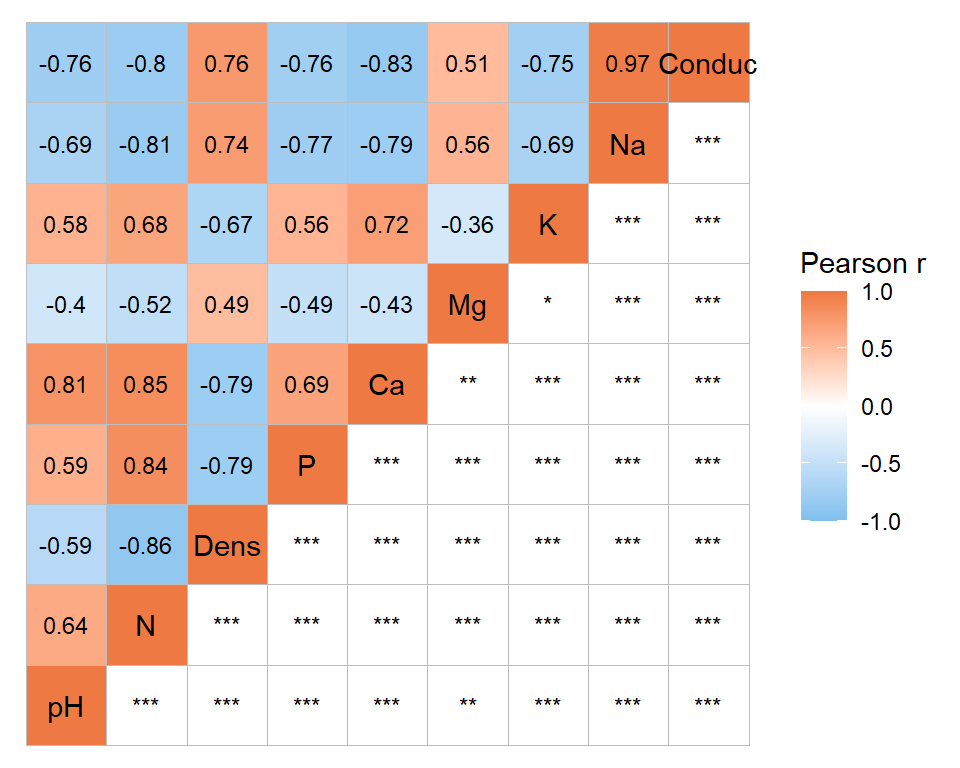
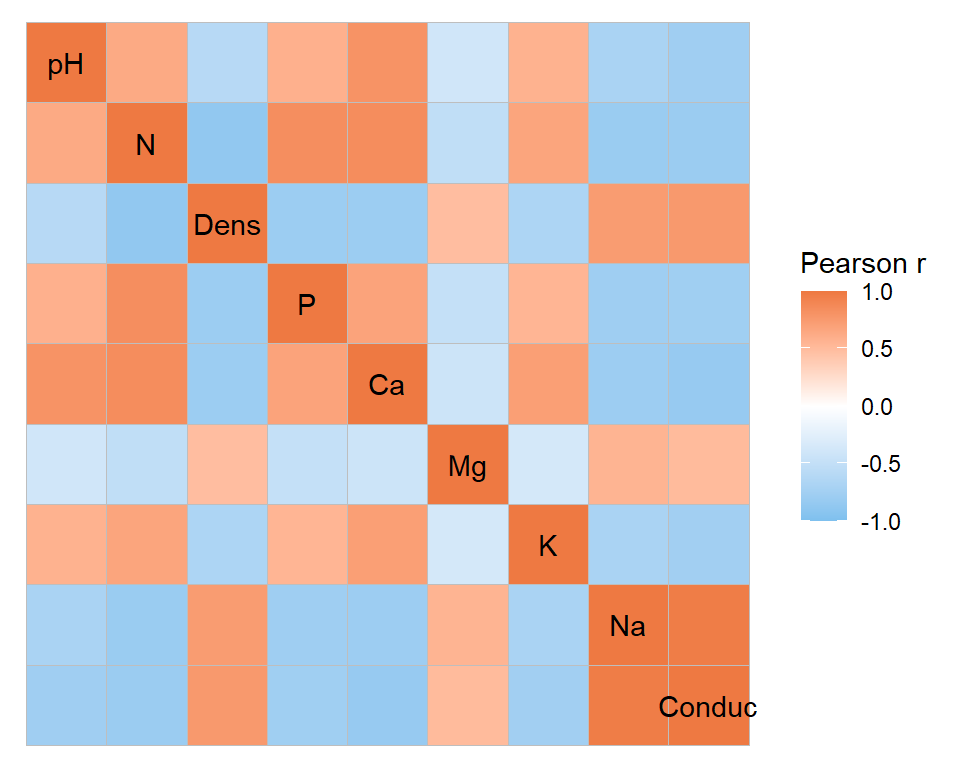
u

diff --git a/_posts/2026-02-17-post-43-pair-them-upcreating-scatterplot-and-correlation-matrices-in-ggplots/post-43-pair-them-upcreating-scatterplot-and-correlation-matrices-in-ggplots.html b/_posts/2026-02-17-post-43-pair-them-upcreating-scatterplot-and-correlation-matrices-in-ggplots/post-43-pair-them-upcreating-scatterplot-and-correlation-matrices-in-ggplots.html
@@ -119,7 +119,7 @@ code span.wa { color: #5e5e5e; font-style: italic; } /* Warning */
   <!--/radix_placeholder_rmarkdown_metadata-->
   
   <script type="text/json" id="radix-resource-manifest">
-  {"type":"character","attributes":{},"value":["post-43-pair-them-upcreating-scatterplot-and-correlation-matrices-in-ggplots_files/anchor-4.2.2/anchor.min.js","post-43-pair-them-upcreating-scatterplot-and-correlation-matrices-in-ggplots_files/bowser-1.9.3/bowser.min.js","post-43-pair-them-upcreating-scatterplot-and-correlation-matrices-in-ggplots_files/distill-2.2.21/template.v2.js","post-43-pair-them-upcreating-scatterplot-and-correlation-matrices-in-ggplots_files/figure-html5/unnamed-chunk-2-1.png","post-43-pair-them-upcreating-scatterplot-and-correlation-matrices-in-ggplots_files/figure-html5/unnamed-chunk-2-2.png","post-43-pair-them-upcreating-scatterplot-and-correlation-matrices-in-ggplots_files/figure-html5/unnamed-chunk-3-1.png","post-43-pair-them-upcreating-scatterplot-and-correlation-matrices-in-ggplots_files/figure-html5/unnamed-chunk-4-1.png","post-43-pair-them-upcreating-scatterplot-and-correlation-matrices-in-ggplots_files/figure-html5/unnamed-chunk-5-1.png","post-43-pair-them-upcreating-scatterplot-and-correlation-matrices-in-ggplots_files/figure-html5/unnamed-chunk-6-1.png","post-43-pair-them-upcreating-scatterplot-and-correlation-matrices-in-ggplots_files/header-attrs-2.30/header-attrs.js","post-43-pair-them-upcreating-scatterplot-and-correlation-matrices-in-ggplots_files/jquery-3.6.0/jquery-3.6.0.js","post-43-pair-them-upcreating-scatterplot-and-correlation-matrices-in-ggplots_files/jquery-3.6.0/jquery-3.6.0.min.js","post-43-pair-them-upcreating-scatterplot-and-correlation-matrices-in-ggplots_files/jquery-3.6.0/jquery-3.6.0.min.map","post-43-pair-them-upcreating-scatterplot-and-correlation-matrices-in-ggplots_files/popper-2.6.0/popper.min.js","post-43-pair-them-upcreating-scatterplot-and-correlation-matrices-in-ggplots_files/tippy-6.2.7/tippy-bundle.umd.min.js","post-43-pair-them-upcreating-scatterplot-and-correlation-matrices-in-ggplots_files/tippy-6.2.7/tippy-light-border.css","post-43-pair-them-upcreating-scatterplot-and-correlation-matrices-in-ggplots_files/tippy-6.2.7/tippy.css","post-43-pair-them-upcreating-scatterplot-and-correlation-matrices-in-ggplots_files/tippy-6.2.7/tippy.umd.min.js","post-43-pair-them-upcreating-scatterplot-and-correlation-matrices-in-ggplots_files/webcomponents-2.0.0/webcomponents.js"]}
+  {"type":"character","attributes":{},"value":["post-43-pair-them-upcreating-scatterplot-and-correlation-matrices-in-ggplots_files/anchor-4.2.2/anchor.min.js","post-43-pair-them-upcreating-scatterplot-and-correlation-matrices-in-ggplots_files/bowser-1.9.3/bowser.min.js","post-43-pair-them-upcreating-scatterplot-and-correlation-matrices-in-ggplots_files/distill-2.2.21/template.v2.js","post-43-pair-them-upcreating-scatterplot-and-correlation-matrices-in-ggplots_files/figure-html5/unnamed-chunk-2-1.png","post-43-pair-them-upcreating-scatterplot-and-correlation-matrices-in-ggplots_files/figure-html5/unnamed-chunk-2-2.png","post-43-pair-them-upcreating-scatterplot-and-correlation-matrices-in-ggplots_files/figure-html5/unnamed-chunk-3-1.png","post-43-pair-them-upcreating-scatterplot-and-correlation-matrices-in-ggplots_files/figure-html5/unnamed-chunk-4-1.png","post-43-pair-them-upcreating-scatterplot-and-correlation-matrices-in-ggplots_files/figure-html5/unnamed-chunk-5-1.png","post-43-pair-them-upcreating-scatterplot-and-correlation-matrices-in-ggplots_files/figure-html5/unnamed-chunk-6-1.png","post-43-pair-them-upcreating-scatterplot-and-correlation-matrices-in-ggplots_files/figure-html5/unnamed-chunk-7-1.png","post-43-pair-them-upcreating-scatterplot-and-correlation-matrices-in-ggplots_files/figure-html5/unnamed-chunk-8-1.png","post-43-pair-them-upcreating-scatterplot-and-correlation-matrices-in-ggplots_files/header-attrs-2.30/header-attrs.js","post-43-pair-them-upcreating-scatterplot-and-correlation-matrices-in-ggplots_files/jquery-3.6.0/jquery-3.6.0.js","post-43-pair-them-upcreating-scatterplot-and-correlation-matrices-in-ggplots_files/jquery-3.6.0/jquery-3.6.0.min.js","post-43-pair-them-upcreating-scatterplot-and-correlation-matrices-in-ggplots_files/jquery-3.6.0/jquery-3.6.0.min.map","post-43-pair-them-upcreating-scatterplot-and-correlation-matrices-in-ggplots_files/popper-2.6.0/popper.min.js","post-43-pair-them-upcreating-scatterplot-and-correlation-matrices-in-ggplots_files/tippy-6.2.7/tippy-bundle.umd.min.js","post-43-pair-them-upcreating-scatterplot-and-correlation-matrices-in-ggplots_files/tippy-6.2.7/tippy-light-border.css","post-43-pair-them-upcreating-scatterplot-and-correlation-matrices-in-ggplots_files/tippy-6.2.7/tippy.css","post-43-pair-them-upcreating-scatterplot-and-correlation-matrices-in-ggplots_files/tippy-6.2.7/tippy.umd.min.js","post-43-pair-them-upcreating-scatterplot-and-correlation-matrices-in-ggplots_files/webcomponents-2.0.0/webcomponents.js"]}
   </script>
   <!--radix_placeholder_navigation_in_header-->
   <!--/radix_placeholder_navigation_in_header-->
@@ -1639,18 +1639,132 @@ div.l-body img {
 <p>Suppose you have a dataset with several variables in the columns (can be continuous, categorical, or a mix of both) and you would like to explore the bivariate relationships between the variables, then a scatterplot matrix will be really handy for this: it visualizes all pairwise combinations of variables using a range of plot types, for example, a scatterplot for two continuous variables and a boxplot for one continuous vs. one categorical variable. If you have just continuous variables in the data, you can further visualize their pairwise correlation coefficients in a correlation heatmap, which uses color for the sign of correlations and intensity for the strength of correlations. Interesting patterns will often reveal themselves!</p>
 <p>In this post, we’ll be creating scatterplot matrices in ggplots using the extension package <code>GGally</code> as well as correlation matrices/heatmaps using the extension package <code>ggcorrheatmap</code>. Let’s start pairing things up!</p>
 <h2 id="part-i.-create-scatterplot-matrices-with-ggally">Part I. Create scatterplot matrices with <code>GGally</code></h2>
-<h3 id="basic-scatterplot-matrices">(1) Basic scatterplot matrices</h3>
+<p>In the first part of the post, we’ll create scatterplot matrices using the package <a href="https://ggobi.github.io/ggally/index.html"><code>GGally</code></a>. We’ll use the “Soils” dataset from the package <code>cardata</code>: the dataset contains various physical and chemical characteristics of soils from different topographic positions. To simplify things, we’ll just use two continuous (“pH” and “N”) and two categorical (“Contour” and “Depth”) variables in the following examples. This also allows us to explore all three possible variable combinations (continuous–continuous, continuous–categorical, and categorical–categorical).</p>
+<h3 id="create-a-basic-scatterplot-matrix">(1) Create a basic scatterplot matrix</h3>
+<p>Adjust facet labels</p>
 <div class="layout-chunk" data-layout="l-body">
 <div class="sourceCode">
 <pre class="sourceCode r"><code class="sourceCode r"><span><span class='kw'><a href='https://rdrr.io/r/base/library.html'>library</a></span><span class='op'>(</span><span class='va'><a href='https://tidyverse.tidyverse.org'>tidyverse</a></span><span class='op'>)</span></span>
 <span><span class='kw'><a href='https://rdrr.io/r/base/library.html'>library</a></span><span class='op'>(</span><span class='va'><a href='https://ggobi.github.io/ggally/'>GGally</a></span><span class='op'>)</span></span>
-<span><span class='kw'><a href='https://rdrr.io/r/base/library.html'>library</a></span><span class='op'>(</span><span class='va'><a href='https://r-forge.r-project.org/projects/car/'>carData</a></span><span class='op'>)</span></span>
-<span><span class='fu'><a href='https://rdrr.io/r/utils/data.html'>data</a></span><span class='op'>(</span><span class='st'>"Soils"</span><span class='op'>)</span></span></code></pre>
+<span><span class='kw'><a href='https://rdrr.io/r/base/library.html'>library</a></span><span class='op'>(</span><span class='va'><a href='https://r-forge.r-project.org/projects/car/'>carData</a></span><span class='op'>)</span>  <span class='co'># for the dataset "Soils"</span></span>
+<span></span>
+<span><span class='co'>### Create a basic scatterplot matrix</span></span>
+<span><span class='va'>Soils</span></span></code></pre>
 </div>
+<pre><code>   Group    Contour Depth Gp Block   pH     N Dens   P    Ca    Mg
+1      1        Top  0-10 T0     1 5.40 0.188 0.92 215 16.35  7.65
+2      1        Top  0-10 T0     2 5.65 0.165 1.04 208 12.25  5.15
+3      1        Top  0-10 T0     3 5.14 0.260 0.95 300 13.02  5.68
+4      1        Top  0-10 T0     4 5.14 0.169 1.10 248 11.92  7.88
+5      2        Top 10-30 T1     1 5.14 0.164 1.12 174 14.17  8.12
+6      2        Top 10-30 T1     2 5.10 0.094 1.22 129  8.55  6.92
+7      2        Top 10-30 T1     3 4.70 0.100 1.52 117  8.74  8.16
+8      2        Top 10-30 T1     4 4.46 0.112 1.47 170  9.49  9.16
+9      3        Top 30-60 T3     1 4.37 0.112 1.07 121  8.85 10.35
+10     3        Top 30-60 T3     2 4.39 0.058 1.54 115  4.73  6.91
+11     3        Top 30-60 T3     3 4.17 0.078 1.26 112  6.29  7.95
+12     3        Top 30-60 T3     4 3.89 0.070 1.42 117  6.61  9.76
+13     4        Top 60-90 T6     1 3.88 0.077 1.25 127  6.41 10.96
+14     4        Top 60-90 T6     2 4.07 0.046 1.54  91  3.82  6.61
+15     4        Top 60-90 T6     3 3.88 0.055 1.53  91  4.98  8.00
+16     4        Top 60-90 T6     4 3.74 0.053 1.40  79  5.86 10.14
+17     5      Slope  0-10 S0     1 5.11 0.247 0.94 261 13.25  7.55
+18     5      Slope  0-10 S0     2 5.46 0.298 0.96 300 12.30  7.50
+19     5      Slope  0-10 S0     3 5.61 0.145 1.10 242  9.66  6.76
+20     5      Slope  0-10 S0     4 5.85 0.186 1.20 229 13.78  7.12
+21     6      Slope 10-30 S1     1 4.57 0.102 1.37 156  8.58  9.92
+22     6      Slope 10-30 S1     2 5.11 0.097 1.30 139  8.58  8.69
+23     6      Slope 10-30 S1     3 4.78 0.122 1.30 214  8.22  7.75
+24     6      Slope 10-30 S1     4 6.67 0.083 1.42 132 12.68  9.56
+25     7      Slope 30-60 S3     1 3.96 0.059 1.53  98  4.80 10.00
+26     7      Slope 30-60 S3     2 4.00 0.050 1.50 115  5.06  8.91
+27     7      Slope 30-60 S3     3 4.12 0.086 1.55 148  6.16  7.58
+28     7      Slope 30-60 S3     4 4.99 0.048 1.46  97  7.49  9.38
+29     8      Slope 60-90 S6     1 3.80 0.049 1.48 108  3.82  8.80
+30     8      Slope 60-90 S6     2 3.96 0.036 1.28 103  4.78  7.29
+31     8      Slope 60-90 S6     3 3.93 0.048 1.42 109  4.93  7.47
+32     8      Slope 60-90 S6     4 4.02 0.039 1.51 100  5.66  8.84
+33     9 Depression  0-10 D0     1 5.24 0.194 1.00 445 12.27  6.27
+34     9 Depression  0-10 D0     2 5.20 0.256 0.78 380 11.39  7.55
+35     9 Depression  0-10 D0     3 5.30 0.136 1.00 259  9.96  8.08
+36     9 Depression  0-10 D0     4 5.67 0.127 1.13 248  9.12  7.04
+37    10 Depression 10-30 D1     1 4.46 0.087 1.24 276  7.24  9.40
+38    10 Depression 10-30 D1     2 4.91 0.092 1.47 158  7.37 10.57
+39    10 Depression 10-30 D1     3 4.79 0.047 1.46 121  6.99  9.91
+40    10 Depression 10-30 D1     4 5.36 0.095 1.26 195  8.59  8.66
+41    11 Depression 30-60 D3     1 3.94 0.054 1.60 148  4.85  9.62
+42    11 Depression 30-60 D3     2 4.52 0.051 1.53 115  6.34  9.78
+43    11 Depression 30-60 D3     3 4.35 0.032 1.55  82  5.99  9.73
+44    11 Depression 30-60 D3     4 4.64 0.065 1.46 152  4.43 10.54
+45    12 Depression 60-90 D6     1 3.82 0.038 1.40 105  4.65  9.85
+46    12 Depression 60-90 D6     2 4.24 0.035 1.47 100  4.56  8.95
+47    12 Depression 60-90 D6     3 4.22 0.030 1.56  97  5.29  8.37
+48    12 Depression 60-90 D6     4 4.41 0.058 1.58 130  4.58  9.46
+      K    Na Conduc
+1  0.72  1.14   1.09
+2  0.71  0.94   1.35
+3  0.68  0.60   1.41
+4  1.09  1.01   1.64
+5  0.70  2.17   1.85
+6  0.81  2.67   3.18
+7  0.39  3.32   4.16
+8  0.70  3.76   5.14
+9  0.74  5.74   5.73
+10 0.77  5.85   6.45
+11 0.26  5.30   8.37
+12 0.41  8.30   9.21
+13 0.56  9.67  10.64
+14 0.50  7.67  10.07
+15 0.23  8.78  11.26
+16 0.41 11.04  12.15
+17 0.61  1.86   2.61
+18 0.68  2.00   1.98
+19 0.63  1.01   0.76
+20 0.62  3.09   2.85
+21 0.63  3.67   3.24
+22 0.42  4.70   4.63
+23 0.32  3.07   3.67
+24 0.55  8.30   8.10
+25 0.36  6.52   7.72
+26 0.28  7.91   9.78
+27 0.16  6.39   9.07
+28 0.40  9.70   9.13
+29 0.24  9.57  11.57
+30 0.24  9.67  11.42
+31 0.14  9.65  13.32
+32 0.37 10.54  11.57
+33 0.72  1.02   0.75
+34 0.78  1.63   2.20
+35 0.45  1.97   2.27
+36 0.55  1.43   0.67
+37 0.43  4.17   5.08
+38 0.59  5.07   6.37
+39 0.30  5.15   6.82
+40 0.48  4.17   3.65
+41 0.18  7.20  10.14
+42 0.34  8.52   9.74
+43 0.22  7.02   8.60
+44 0.22  7.61   9.09
+45 0.18 10.15  12.26
+46 0.33 10.51  11.29
+47 0.14  8.27   9.51
+48 0.14  9.28  12.69</code></pre>
+</div>
+<h3 id="change-plot-types-in-the-scatterplot-matrix">(2) Change plot types in the scatterplot matrix</h3>
+<p>built-in option
+custom functions
+function wrapping</p>
+<div class="layout-chunk" data-layout="l-body">
+
+</div>
+<h3 id="adjust-certain-plots-in-the-scatterplot-matrix">(3) Adjust certain plots in the scatterplot matrix</h3>
+<p>plot subsetting</p>
+<div class="layout-chunk" data-layout="l-body">
+
 </div>
 <h2 id="part-ii.-create-correlation-heatmaps-with-ggcorrheatmap">Part II. Create correlation heatmaps with <code>ggcorrheatmap</code></h2>
-<p>In the second part of this post, we’ll focus on the continuous variables in the <code>Soil</code> dataset. <code>ggcorrheatmap</code> offers a wide variety of functionality for creating correlation heatmaps. Let’s start with the basics and add more complexity as we go.</p>
-<h3 id="make-a-basic-correlation-heatmap">(1) Make a basic correlation heatmap</h3>
+<p>In the second part of this post, we’ll focus on the continuous variables in the <code>Soil</code> dataset. <a href="https://leod123.github.io/ggcorrheatmap/"><code>ggcorrheatmap</code></a> offers a wide variety of functionality for creating correlation heatmaps. Let’s start with the basics and add more complexity as we go.</p>
+<h3 id="create-a-basic-correlation-heatmap">(1) Create a basic correlation heatmap</h3>
 <p><code>ggcorrhm()</code> is the master function for creating correlation heatmaps. Simply pass your data to the function and you’ll get a basic heatmap (note that the default choice of correlation is the Pearson’s <em>r</em>)!</p>
 <div class="layout-chunk" data-layout="l-body">
 <div class="sourceCode">
@@ -1663,7 +1777,7 @@ div.l-body img {
 <span><span class='co'>### Create a basic correlation heatmap</span></span>
 <span><span class='fu'><a href='https://leod123.github.io/ggcorrheatmap/reference/ggcorrhm.html'>ggcorrhm</a></span><span class='op'>(</span><span class='va'>Soils_continuous</span><span class='op'>)</span></span></code></pre>
 </div>
-<p><img src="post-43-pair-them-upcreating-scatterplot-and-correlation-matrices-in-ggplots_files/figure-html5/unnamed-chunk-2-1.png" alt="" width="480" style="display: block; margin: auto;" /></p>
+<p><img src="post-43-pair-them-upcreating-scatterplot-and-correlation-matrices-in-ggplots_files/figure-html5/unnamed-chunk-4-1.png" alt="" width="480" style="display: block; margin: auto;" /></p>
 </div>
 <p>We can also change the cell color/shape and remove the diagonal cells (which all have a correlation coefficient of 1).</p>
 <div class="layout-chunk" data-layout="l-body">
@@ -1678,7 +1792,7 @@ div.l-body img {
 <span>         size_range <span class='op'>=</span> <span class='fu'><a href='https://rdrr.io/r/base/c.html'>c</a></span><span class='op'>(</span><span class='fl'>5</span>, <span class='fl'>10</span><span class='op'>)</span>,  <span class='co'># cell size range</span></span>
 <span>         layout <span class='op'>=</span> <span class='st'>"bottomright"</span><span class='op'>)</span>  <span class='co'># show only the bottom-right triangular matrix     </span></span></code></pre>
 </div>
-<p><img src="post-43-pair-them-upcreating-scatterplot-and-correlation-matrices-in-ggplots_files/figure-html5/unnamed-chunk-3-1.png" alt="" width="480" style="display: block; margin: auto;" /></p>
+<p><img src="post-43-pair-them-upcreating-scatterplot-and-correlation-matrices-in-ggplots_files/figure-html5/unnamed-chunk-5-1.png" alt="" width="480" style="display: block; margin: auto;" /></p>
 </div>
 <p>Looks like there are some strong positive correlations (e.g., between Na and Conductance and between N and P) and some strong negative ones (e.g., between N and Density and between P and Density). But what are the actual coefficients (and their statistical significance)?</p>
 <h3 id="create-a-correlation-heatmap-with-a-mixed-layout">(2) Create a correlation heatmap with a mixed layout</h3>
@@ -1695,7 +1809,7 @@ div.l-body img {
 <span>         p_thresholds <span class='op'>=</span> <span class='fu'><a href='https://rdrr.io/r/base/c.html'>c</a></span><span class='op'>(</span><span class='st'>"***"</span> <span class='op'>=</span> <span class='fl'>0.001</span>, <span class='st'>"**"</span> <span class='op'>=</span> <span class='fl'>0.01</span>, <span class='st'>"*"</span> <span class='op'>=</span> <span class='fl'>0.05</span>, <span class='fl'>1</span><span class='op'>)</span>,  <span class='co'># thresholds for annotating the significance stars</span></span>
 <span>         cell_labels <span class='op'>=</span> <span class='fu'><a href='https://rdrr.io/r/base/c.html'>c</a></span><span class='op'>(</span><span class='cn'>T</span>, <span class='cn'>F</span><span class='op'>)</span><span class='op'>)</span>  <span class='co'># whether to show the correlation coefficients in each of the two triangular matrices</span></span></code></pre>
 </div>
-<p><img src="post-43-pair-them-upcreating-scatterplot-and-correlation-matrices-in-ggplots_files/figure-html5/unnamed-chunk-4-1.png" alt="" width="480" style="display: block; margin: auto;" /></p>
+<p><img src="post-43-pair-them-upcreating-scatterplot-and-correlation-matrices-in-ggplots_files/figure-html5/unnamed-chunk-6-1.png" alt="" width="480" style="display: block; margin: auto;" /></p>
 </div>
 <p>All correlation coefficients are significant (without <em>p</em>-value adjustment)!!!</p>
 <h3 id="highlight-certain-cells-in-the-heatmap">(3) Highlight certain cells in the heatmap</h3>
@@ -1725,7 +1839,7 @@ div.l-body img {
 <span>            linewidth <span class='op'>=</span> <span class='va'>p_data</span><span class='op'>$</span><span class='va'>border_width</span>,  <span class='co'># new cell border width </span></span>
 <span>            color <span class='op'>=</span> <span class='va'>p_data</span><span class='op'>$</span><span class='va'>border_color</span><span class='op'>)</span>  <span class='co'># new cell border color</span></span></code></pre>
 </div>
-<p><img src="post-43-pair-them-upcreating-scatterplot-and-correlation-matrices-in-ggplots_files/figure-html5/unnamed-chunk-5-1.png" alt="" width="480" style="display: block; margin: auto;" /></p>
+<p><img src="post-43-pair-them-upcreating-scatterplot-and-correlation-matrices-in-ggplots_files/figure-html5/unnamed-chunk-7-1.png" alt="" width="480" style="display: block; margin: auto;" /></p>
 </div>
 <h3 id="cluster-the-variables-and-annotate-the-heatmap">(4) Cluster the variables and annotate the heatmap</h3>
 <p>There are two more things we can do to make the heatmap even fancier: (1) clustering the variables and (2) annotating the plot.</p>
@@ -1782,12 +1896,12 @@ div.l-body img {
 <span>  <span class='fu'><a href='https://ggplot2.tidyverse.org/reference/theme.html'>theme</a></span><span class='op'>(</span>legend.position <span class='op'>=</span> <span class='st'>"inside"</span>,</span>
 <span>        legend.position.inside <span class='op'>=</span> <span class='fu'><a href='https://rdrr.io/r/base/c.html'>c</a></span><span class='op'>(</span><span class='fl'>0.1</span>, <span class='fl'>0.35</span><span class='op'>)</span><span class='op'>)</span></span></code></pre>
 </div>
-<p><img src="post-43-pair-them-upcreating-scatterplot-and-correlation-matrices-in-ggplots_files/figure-html5/unnamed-chunk-6-1.png" alt="" width="480" style="display: block; margin: auto;" /></p>
+<p><img src="post-43-pair-them-upcreating-scatterplot-and-correlation-matrices-in-ggplots_files/figure-html5/unnamed-chunk-8-1.png" alt="" width="480" style="display: block; margin: auto;" /></p>
 </div>
 <p>Awesome! Looks like there are two main clusters of variables: [Mg, Density, Na, and Conductance] vs. [N, P, K, pH, and Ca].</p>
 <h2 id="summary">Summary</h2>
 <p>Hope you learn something useful from this post and don’t forget to leave your comments and suggestions below if you have any!</p>
-<div class="sourceCode" id="cb1"><pre class="sourceCode r distill-force-highlighting-css"><code class="sourceCode r"></code></pre></div>
+<div class="sourceCode" id="cb2"><pre class="sourceCode r distill-force-highlighting-css"><code class="sourceCode r"></code></pre></div>
 <!--radix_placeholder_article_footer-->
 <!--/radix_placeholder_article_footer-->
 </div>
